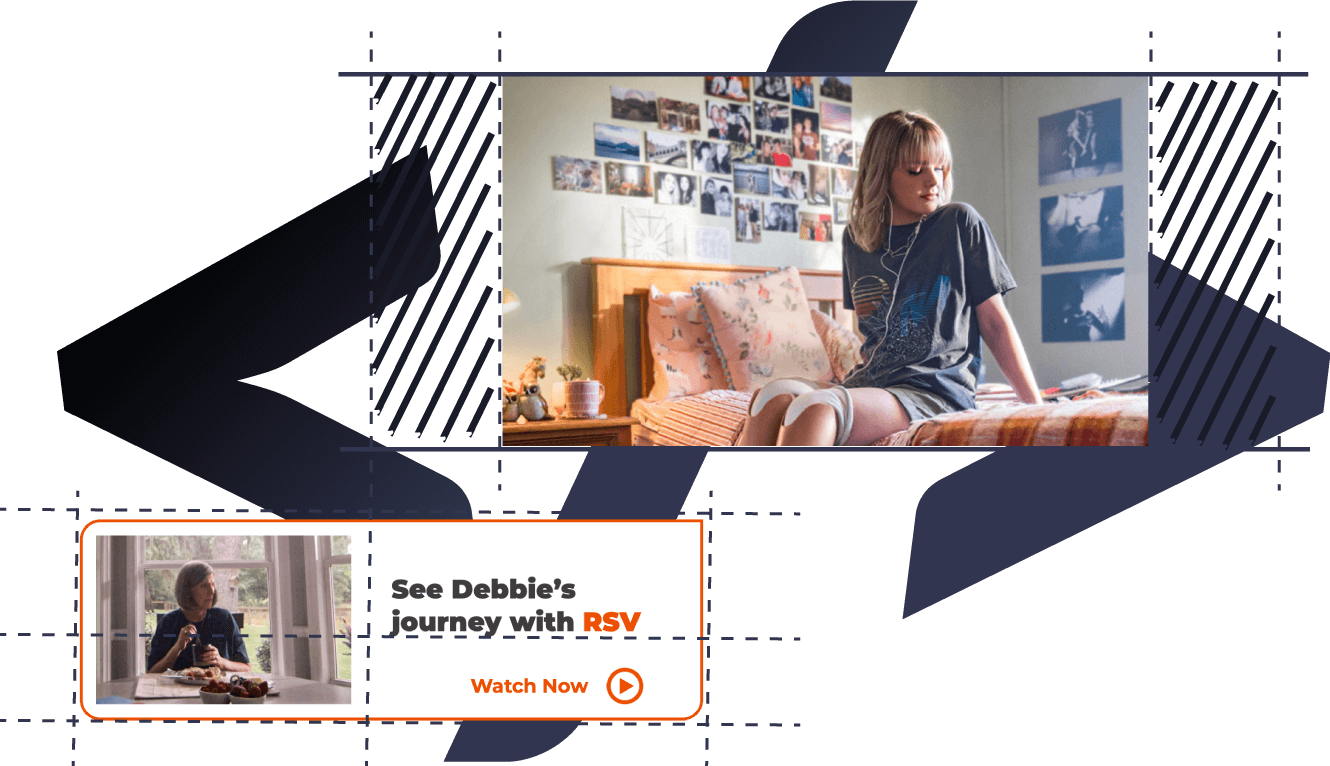
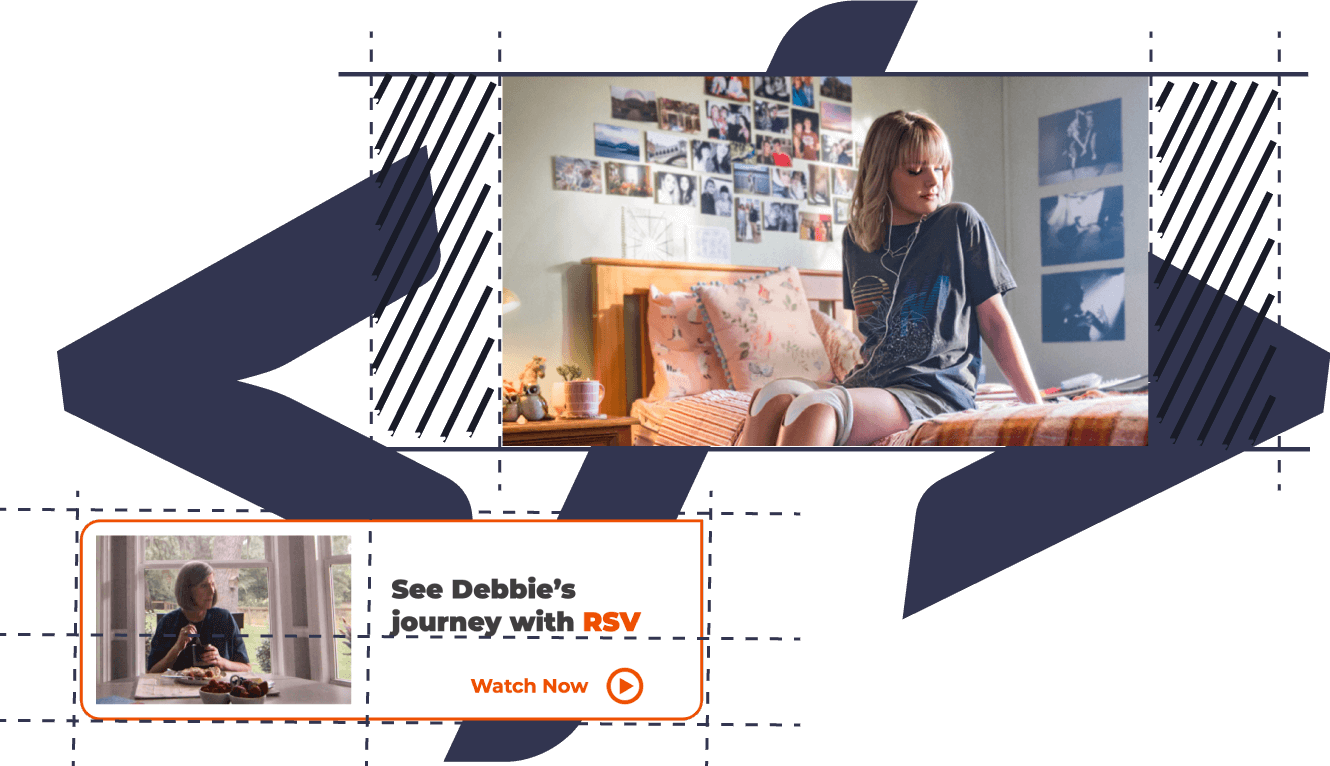
updating case studies page

Changed region(s): [[0.0308, 0.1802, 0.3391, 0.6906]]

diff --git a/danielmoralesbweb/src/sass/_projects.scss b/danielmoralesbweb/src/sass/_projects.scss
@@ -32,6 +32,10 @@
             background: linear-gradient(20deg, $black -12%, transparent 48%);
         }
     }
+
+    &.project--list {
+        margin-top: $margin*2;
+    }
 }
 
 .project__inner {
@@ -49,19 +53,19 @@
     .project--list & {
         @include min-screen('md') {
             display: block;
-            position: relative;
+            // position: relative;
 
-            &:before {
-                content: '';
-                background: linear-gradient(25deg, $black -5%, transparent 55%);
-                clip-path: polygon(15% 0%, 100% 0%, 100% 100%, 0% 100%);
-                display: block;
-                width: 50%;
-                height: 100%;
-                position: absolute;
-                left: 50%;
-                bottom: 0;
-            }
+            // &:before {
+            //     content: '';
+            //     background: linear-gradient(25deg, $black -5%, transparent 55%);
+            //     clip-path: polygon(40% 0%, 100% 0%, 100% 100%, 0% 100%);
+            //     display: block;
+            //     width: 50%;
+            //     height: 100%;
+            //     position: absolute;
+            //     left: 50%;
+            //     bottom: 0;
+            // }
         }
     }
 }
@@ -88,27 +92,36 @@
     }
 
     &.project__title--hassubitle {
-        display: flex;
+        @include min-screen('md') {
+            display: flex;
+        }
     }
 }
 
 .project__subtitle {
-    display: flex;
-    align-items: center;
+    display: block;
+
+    @include min-screen('md') {
+        display: flex;
+        align-items: center;
+    }
 }
 .project__subtitle__text {
-    
     color: $text-color-light;
     font-weight: $font-weight-light;
-    font-size: $font-size-md;
+    font-size: $font-size-md + 0.25;
 }
 
 .project__pipe {
-    background-color: $text-color-light;
-    display: block;
-    height: 2px;
-    width: 41px;
-    transform: rotate(102deg);
+    display: none;
+
+    @include min-screen('md') {
+        background-color: $text-color-light;
+        display: block;
+        height: 2px;
+        width: 41px;
+        transform: rotate(102deg);
+    }
 }
 
 .project__date {
@@ -139,6 +152,22 @@
         display: flex;
         justify-content: flex-end;
         margin-right: -$margin;
+
+        .project--list & {
+            position: relative;
+    
+            &:before {
+                content: '';
+                background: linear-gradient(25deg, $black -5%, transparent 55%);
+                clip-path: polygon(40% 0%, 100% 0%, 100% 100%, 0% 100%);
+                display: block;
+                width: 100%;
+                height: 100%;
+                position: absolute;
+                left: 0%;
+                bottom: 0;
+            }
+        }
     }
 
     img {
@@ -154,6 +183,35 @@
     }
 }
 
+.project__figure {
+    @include min-screen('md') {
+        position: relative;
+        z-index: 1;
+//         display: block;
+
+//         &:before {
+//             content: '';
+//             background: linear-gradient(25deg, $black -5%, transparent 55%);
+//             clip-path: polygon(40% 0%, 100% 0%, 100% 100%, 0% 100%);
+//             display: block;
+//             width: 50%;
+//             height: 100%;
+//             position: absolute;
+//             left: 50%;
+//             bottom: 0;
+//         }
+    }
+}
+
+.project__figcaption {
+    color: $text-color-gray-light;
+    display: none;
+
+    .show &{
+        display: block;
+    }
+}
+
 .project__content {
     background-color: $brand-primary;
     display: none;
@@ -164,7 +222,7 @@
         padding: 0;
     }
 
-    &.show{
+    .show &{
         display: block;
     }
 }

diff --git a/danielmoralesbweb/src/components/SectionList.jsx b/danielmoralesbweb/src/components/SectionList.jsx
@@ -15,7 +15,7 @@ function SectionList(props) {
         <>
             {
                 data.sectionList[props.page].map((section, index) => (
-                    <section key={index} className="project project--list">
+                    <section key={index} className={`project project--list ${toggleContent[index] ? "show" : ""}`}>
                         <div className="project__inner container">
                             <h3 className={(section.subTitle) ? "project__title project__title--hassubitle" : "project__title"}>{section.title} {(section.subTitle) ? <span className="project__subtitle"><i className="project__pipe"></i><strong className="project__subtitle__text">{section.subTitle}</strong></span> : ''}</h3>
                             <div className="project__inner__inner">
@@ -25,11 +25,14 @@ function SectionList(props) {
                                     <p className="project__link"><button className="btn btn--link" onClick={() => toggleThis(index)}>View case</button></p>
                                 </div>
                                 <div className="project__image">
-                                    <img src={section.image} alt={section.imageAlt} />
+                                    <figure className="project__figure">
+                                        <img src={section.image} alt={section.imageAlt} />
+                                        <figcaption className="project__figcaption">{section.imageCaption}</figcaption>
+                                    </figure>
                                 </div>
                             </div>
                         </div>
-                        <div className={`project__content container ${toggleContent[index] ? "show" : ""}`}>
+                        <div className="project__content container">
                             <h4>Challenge</h4>
                             <p>{section.challenge}</p>
                             <h4>Approach</h4>

diff --git a/danielmoralesbweb/src/data.js b/danielmoralesbweb/src/data.js
@@ -597,6 +597,7 @@ export const data = {
                 description: "This case details creating a centered hero component across various screen sizes. This was accomplished by using a series of techniques that included the visualization (thought process), design (image formatting) and the application of modern CSS technologies (SCSS programming) to achieve the component's fluidity, even during its rendering on the most extreme use cases.",
                 image: sectionMentionMenB,
                 imageAlt: "A collage of screenshots fromt the Mention Meningitis B site",
+                imageCaption: "Full Screen And Close Up  Screenshots Of The Mention Meningitis B Site"
             },
             {
                 title: "RSV in Adults",
@@ -604,6 +605,7 @@ export const data = {
                 description: "This case study outlines the process from which a design update (Adobe XD) to a section of the page Risk to Older Adults of the RSV site required a series of tasks applied to different components, including the application of modern CSS technologies.",
                 image: sectionRSV,
                 imageAlt: "A collage of screenshots fromt the Mention Meningitis B site",
+                imageCaption: "Full Screen And Close Up  Screenshots Of The RSV in Adults Site"
             }
         ]
     },

diff --git a/danielmoralesbweb/src/sass/_images.scss b/danielmoralesbweb/src/sass/_images.scss
@@ -133,7 +133,7 @@
 }
 
 .hero {
-    &-daniel {
+    &-home {
         width: 80%;
 
         @include min-screen('md') {
@@ -141,6 +141,10 @@
         }
 
         @include min-screen('lg') {
+            width: 500px;
+        }
+
+        @include min-screen('xl') {
             width: 637px;
         }
     }
@@ -153,7 +157,7 @@
         }
 
         @include min-screen('lg') {
-            width: 400px;
+            width: 500px;
         }
 
         @include min-screen('xl') {
@@ -165,6 +169,30 @@
         width: 100%;
 
         @include min-screen('md') {
+            width: 350px;
+        }
+
+        @include min-screen('lg') {
+            width: 500px;
+        }
+
+        @include min-screen('xl') {
+            width: 664px;
+        }
+    }
+
+    &-casestudies {
+        width: 100%;
+
+        @include min-screen('md') {
+            width: 350px;
+        }
+
+        @include min-screen('lg') {
+            width: 500px;
+        }
+
+        @include min-screen('xl') {
             width: 664px;
         }
     }

diff --git a/danielmoralesbweb/src/components/Hero.jsx b/danielmoralesbweb/src/components/Hero.jsx
@@ -11,7 +11,7 @@ function HeroMain(selected) {
                             <h1><span className="block--xs">{hero.title1}</span> <span className="block--xs">{hero.title2}</span></h1>
                         </div>
                         <div className="hero__image">
-                            <img src={hero.image} className="hero-daniel" alt={hero.imageAlt} title={hero.imageTitle} />
+                            <img src={hero.image} className={`hero-${selected.page}`} alt={hero.imageAlt} title={hero.imageTitle} />
                         </div>
                     </div>
                     <p>{HtmlReactParser(hero.description)}</p>

diff --git a/danielmoralesbweb/src/sass/_footer.scss b/danielmoralesbweb/src/sass/_footer.scss
@@ -12,12 +12,17 @@ footer {
 .footer__logo-link {
     display: block;
     margin: 0 auto;
-    max-width: 200px;
-    height: 76.75px;
+    max-width: 150px;
+    height: 60.16px;
     position: relative;
 
     @include min-screen('md') {
         margin: 0;
+    }
+
+    @include min-screen('lg') {
+        max-width: 200px;
+        height: 76.75px;
     }
 
     .footer__logo-image-gold {

diff --git a/danielmoralesbweb/src/components/Header.jsx b/danielmoralesbweb/src/components/Header.jsx
@@ -7,7 +7,7 @@ function Header() {
     const [menuState, setMenuState] = useState(false);
 
     function isActive(path) {
-        return window.location.pathname === `/${path}` ? "active" : "";
+        return window.location.pathname === `/${path}` || (window.location.pathname === '/' && path === '') ? "active" : "";
     }
 
     return (

diff --git a/danielmoralesbweb/src/sass/standard/_vars.scss b/danielmoralesbweb/src/sass/standard/_vars.scss
@@ -94,6 +94,7 @@ $text-color-dark: $black-pearl;
 $text-color-primary: $brand-primary;
 $text-color-secondary: $brand-secondary;
 $text-color-tertiary: $brand-tertiary;
+$text-color-gray-light: $gray-light;
 
 // ------------------------------------------------------ //
 // Link Colors
